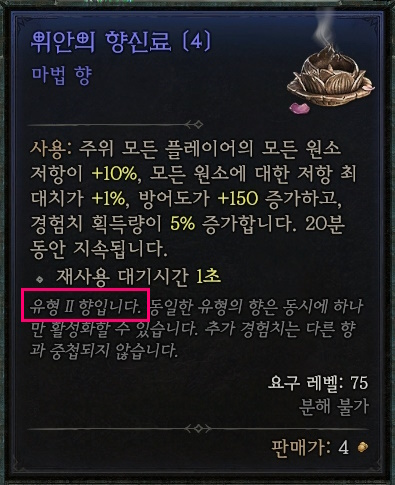
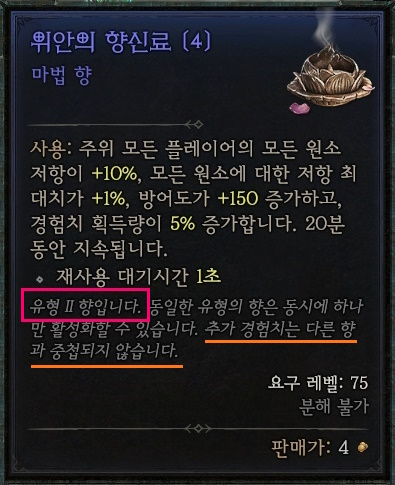
디아블로 향로 경험치 중복 불가 추가
- 디아블로 향로 경험치 중복 불가 추가

Changed region(s): [[0.5165, 0.6804, 0.9114, 0.7113], [0.0608, 0.7423, 0.4557, 0.7732]]

diff --git a/index.html b/index.html
@@ -495,17 +495,15 @@
       
         <div class="col-md-4 col-sm-6">
           <div class="blog-block">
-             <img src="/images/game/enshrouded/enshrouded-legendary-weapon-guillotine-info-00.jpg" alt="[인슈라오디드] 첫번째 전설 무기 - 기요틴(길로틴) 정보 썸네일 이미지" />
+             <img src="/images/game/mobile/nexon-bnf-legend-item-seoul-jamsil-saenae-fist-of-sun-06.png" alt="[빌딩앤파이터] 올가전용 전설 무기 [서울 잠실새내 태양권] 플레이 후기와 영상 썸네일 이미지" />
             <div class="blog-content">
-              <h3><a href="/game/survival/enshrouded-legendary-weapon-guillotine-info.html">[인슈라오디드] 첫번째...</a></h3>
-              <span class="post-meta">2024-02-11 /
+              <h3><a href="/game/mobile/building-and-fighter-legend-item-seoul-jamsil-saenae-fist-of-sun-play-movie.html">[빌딩앤파이터] 올가전...</a></h3>
+              <span class="post-meta">2024-01-10 /
           
-              <a href="/tag/tag-survival.html">survival</a>, 
-          
-              <a href="/tag/tag-settlers.html">settlers</a>
+              <a href="/tag/tag-mobile.html">mobile</a>
           </span>
-              <p> 개요 요즘 [팰 월드(PalWorld)]에 이어서 화제가 되고 있는 오픈 월드 생존 RPG 게임인 [인슈라오디드(Enshrouded)]을 플레이하면서 처음으로 획득한 전설(Legendary) 무기인 [기요틴(길로틴)]에... </p>
-              <a href="/game/survival/enshrouded-legendary-weapon-guillotine-info.html" class="btn btn-new btn-new-sm btn-new-common">Read More</a>
+              <p> 개요 넥슨(Nexon)의 위치기반 모바일 게임 [빌딩앤파이터]의 올가전용 전설 무기 [서울 잠실새내 태양권] 플레이 후기와 영상 정보에 대해 정리해보겠습니다. 우선 무기... </p>
+              <a href="/game/mobile/building-and-fighter-legend-item-seoul-jamsil-saenae-fist-of-sun-play-movie.html" class="btn btn-new btn-new-sm btn-new-common">Read More</a>
             </div>
           </div>
         </div>     
@@ -516,26 +514,18 @@
             
       
       
-        
-      
-    
-            
-      
-      
       
         <div class="col-md-4 col-sm-6">
           <div class="blog-block">
-             <img src="/images/game/pioneers-of-pagonia/pioneers-of-pagonia-interface-mining-building-info-01.png" alt="[파이오니어스 오브 파고니아] 인터페이스 - 채굴 건물 정보 썸네일 이미지" />
+             <img src="/images/game/diablo/diablo4-item-sacred-unique-staff-of-endless-rage-01-ko.jpg" alt="디아블로4 27일차 획득 고유 아이템 [끝없는 분노의 지팡이] 상세 정보 썸네일 이미지" />
             <div class="blog-content">
-              <h3><a href="/game/simulation/pioneers-of-pagonia-interface-mining-building-info.html">[파이오니어스 오브 파...</a></h3>
-              <span class="post-meta">2024-01-04 /
+              <h3><a href="/game/diablo/diablo4-day27-get-sacred-unique-staff-of-endless-rage-info.html">디아블로4 27일차 획...</a></h3>
+              <span class="post-meta">2023-06-28 /
           
-              <a href="/tag/tag-simulation.html">simulation</a>, 
-          
-              <a href="/tag/tag-settlers.html">settlers</a>
+              <a href="/tag/tag-diablo.html">diablo</a>
           </span>
-              <p> 개요 세틀러(Settlers) 원작자이자 개발자가 제작하고, 스팀(Steam)에서 얼리 액세스(Early Access, 앞서 해보기)로 출시된 도시 건설 시뮬레이션 신작 파이오니어스 오브 파고니아(Pioneers of... </p>
-              <a href="/game/simulation/pioneers-of-pagonia-interface-mining-building-info.html" class="btn btn-new btn-new-sm btn-new-common">Read More</a>
+              <p> 27일차 득템 디아블로4 플레이 27일차에 획득한 신성 고유(Sacred Unique) 지팡이 아이템 [끝없는 분노의 지팡이]대한 정보를 정리해보겠습니다. 이번 고유 아이템은 [지옥... </p>
+              <a href="/game/diablo/diablo4-day27-get-sacred-unique-staff-of-endless-rage-info.html" class="btn btn-new btn-new-sm btn-new-common">Read More</a>
             </div>
           </div>
         </div>     
@@ -546,24 +536,18 @@
             
       
       
-        
-      
-    
-            
-      
-      
       
         <div class="col-md-4 col-sm-6">
           <div class="blog-block">
-             <img src="/images/drama/korea/tvn-alchemy-of-souls-part2-poster-01.jpg" alt="[환혼] 파트3 (시즌2 ?)가 제작되길 바라며 예상 스토리를 적어봅니다 썸네일 이미지" />
+             <img src="/images/game/mobile/nexon-hit2-dungeon-monster-position-info-01.jpg" alt="히트2 (Hit 2) 계시의 탑 여명회 정예수사 위치 정보 썸네일 이미지" />
             <div class="blog-content">
-              <h3><a href="/life/drama/korea/tvn-alchemy-of-souls-part3-season2-story.html">[환혼] 파트3 (시즌...</a></h3>
-              <span class="post-meta">2023-01-17 /
+              <h3><a href="/game/hit2/hit2-dungeon-monster-position-info.html">히트2 (Hit 2) ...</a></h3>
+              <span class="post-meta">2022-09-09 /
           
-              <a href="/tag/tag-drama.html">drama</a>
+              <a href="/tag/tag-mobile.html">mobile</a>
           </span>
-              <p> 파트2 환혼 파트2가 너무 재미있게, 그리고 무척 아쉽게 10화로 끝이났습니다. 주인공 교체에 대한 논란이 있었지만, 애초에 교체가 아니라 1화에 나왔던... </p>
-              <a href="/life/drama/korea/tvn-alchemy-of-souls-part3-season2-story.html" class="btn btn-new btn-new-sm btn-new-common">Read More</a>
+              <p> 여명회 정예수사, 헤매이는 여명회 정예수사 위치 [테라가드 영주의 지령서] 퀘스트를 진행하다보면 [계시의 탑] 던전 1층에서 [여명회 정예수사]를 처치하라 또는 [계시의... </p>
+              <a href="/game/hit2/hit2-dungeon-monster-position-info.html" class="btn btn-new btn-new-sm btn-new-common">Read More</a>
             </div>
           </div>
         </div>     
@@ -589,58 +573,16 @@
       
         
           
-          
-      
-          
            
           <div class="blog-block post-content-area">
             <div class="blog-post">
-              <h3><i class=" fa-brands fa-php  fa-xl"></i> <a href="/programming/php/php-phpspreadsheet-save-pdf-file-guide.html">Phpspreadsheet, mPDF를 사용해 PDF 문서 저장하기 | Windows</a></h3>
-              <span class="post-meta">2023-12-21 /
+              <h3><i class=" fa-brands fa-apple  fa-xl"></i> <a href="/programming/os/os-macos-catalina-other-volume.html">맥OS 카탈리나(Catalina) 기타볼륨(읽기 전용 볼륨)의 정체</a></h3>
+              <span class="post-meta">2021-11-13 /
           
-              <a href="/tag/tag-php.html">php</a>, 
-          
-              <a href="/tag/tag-windows.html">windows</a>
+              <a href="/tag/tag-mac.html">mac</a>
           </span>
-              <p>개요 여기서는 Windows 환경에서 PHP Composer를 이용해 Phpspreadsheet와 mPDF를 설치하고, PDF 문서를 생성, 저장하는 방법에 대해 정리해보겠습니다. (Phpspreadsheet는 PHPExcel의 업그레이드 버전입니다.) {% include image.html file=”programming/php/php-phpspreadsheet-save-pdf-file-01.png” width=”845” alt=”Windows 환경에서 Phpspreadsheet를 사용해 PDF 문서로 저장하는 방법” %} composer.json 생성 Composer로 Phpspreadsheet와 mPDF를 설치하기 위한 설정 파일인 composer.json 파일을 아래와 같이 생성합니다. {...</p>
-              <a href="/programming/php/php-phpspreadsheet-save-pdf-file-guide.html" class="btn btn-new btn-new-sm btn-new-common">Read More</a>
-            </div>
-          </div>
-          <div class="mb-60"></div> 
-                   
-        
-      
-          
-           
-          <div class="blog-block post-content-area">
-            <div class="blog-post">
-              <h3><i class=" fa-brands fa-windows  fa-xl"></i> <a href="/programming/os/windows-command-util-config.html">윈도우 유용한 유틸, 설정, 명령어 모음</a></h3>
-              <span class="post-meta">2022-05-01 /
-          
-              <a href="/tag/tag-windows.html">windows</a>
-          </span>
-              <p>제어판 윈도우 10 작업 표시줄 검색 창에 [제어판]이라고 입력하면 됩니다. PATH 설정 윈도우 10 작업 표시줄 검색 창에 [고급 시스템 설정 보기]라고 입력한 후 나타나는 팝업에서 아래쪽 [환경변수] 버튼을 클릭하면 됩니다. 시작프로그램 관리 작업표시줄에서 [마우스 오른쪽 클릭] - [작업관리자]에서 [시작 프로그램] 메뉴에서 관리할 수 있습니다. 키보드의 [Windows 키] + [R]에서...</p>
-              <a href="/programming/os/windows-command-util-config.html" class="btn btn-new btn-new-sm btn-new-common">Read More</a>
-            </div>
-          </div>
-          <div class="mb-60"></div> 
-                   
-        
-      
-          
-          
-      
-          
-           
-          <div class="blog-block post-content-area">
-            <div class="blog-post">
-              <h3><i class=" fa-brands fa-linux  fa-xl"></i> <a href="/programming/os/linux-command-tree-manual.html">Linux Tree 명령어 사용법</a></h3>
-              <span class="post-meta">2023-08-25 /
-          
-              <a href="/tag/tag-linux.html">linux</a>
-          </span>
-              <p>개요 Linux에서 tree 명령어는 디렉토리와 파일의 구조를 한눈에 보기 쉽게 계층으로 표현해주는 명령어입니다. 기본 사용법 tree [-acdfghilnpqrstuvxACDFJQNSUX] [-H baseHREF] [-T title ] [-L level [-R]] [-P pattern] [-I pattern] [-o filename] [--version] [--help] [--inodes] [--device] [--noreport] [--nolinks] [--dirsfirst] [--charset charset] [--filelimit[=]#] [--si] [--timefmt[=]&lt;f&gt;] [--sort[=]&lt;name&gt;] [--matchdirs] [--ignore-case] [--] [&lt;directory list&gt;] 주요...</p>
-              <a href="/programming/os/linux-command-tree-manual.html" class="btn btn-new btn-new-sm btn-new-common">Read More</a>
+              <p>개요 아이맥이나 맥북을 사용하면서 최신 OS 카탈리나로 업데이트 한 후에 저랑 비슷하게 당황스러운 경험을 하신 분들이 있을거라 생각이 들어 조금 정리해보았습니다. 아이맥에서 카탈리나로 업데이트 한 후에 몇일 사용하다보니 디스크 용량이 부족하다는 메시지를 접하게 되었습니다. 그래서 디스크 유틸리티로 확인해보았더니 기타볼륨이라고 해서 알수 없는 공간이 상당한 양을 차지하고 있었습니다. 게다가 왼쪽 디스크...</p>
+              <a href="/programming/os/os-macos-catalina-other-volume.html" class="btn btn-new btn-new-sm btn-new-common">Read More</a>
             </div>
           </div>
           <div class="mb-60"></div> 
@@ -655,6 +597,50 @@
       
           
           
+      
+          
+          
+      
+          
+          
+      
+          
+           
+          <div class="blog-block post-content-area">
+            <div class="blog-post">
+              <h3><i class=" fa-solid fa-database  fa-xl"></i> <a href="/programming/database/mysql-workbench-update-error-safe-updates.html">MySql Workbench 대량 Update Error - Safe Updates Option</a></h3>
+              <span class="post-meta">2022-12-17 /
+          
+              <a href="/tag/tag-database.html">database</a>, 
+          
+              <a href="/tag/tag-mysql.html">mysql</a>
+          </span>
+              <p>개요 MySQL DB를 MySQL Workbench로 연결해서 사용할 때 테이블에 있는 다수의 행을 한꺼번에 업데이트 해야 하는 경우가 있습니다. 예를 들어 UPDATE test_db.test_table SET field_1 = ‘value’; 하지만, 이때 업데이트 문을 실행하면 아래와 같이 [safe update mode]가 설정되어 있는데, Key 칼럼을 조건문에 사용하지 않았으므로 쿼리를 실행할 수 없다는 메시지가 나타납니다. {%...</p>
+              <a href="/programming/database/mysql-workbench-update-error-safe-updates.html" class="btn btn-new btn-new-sm btn-new-common">Read More</a>
+            </div>
+          </div>
+          <div class="mb-60"></div> 
+                   
+        
+      
+          
+           
+          <div class="blog-block post-content-area">
+            <div class="blog-post">
+              <h3><i class=" fa-brands fa-markdown  fa-xl"></i> <a href="/programming/jekyll/jekyll-sitemap-gem-xml-edit.html">Jekyll sitemap.xml 템플릿 수정하기 | Ruby 3.0</a></h3>
+              <span class="post-meta">2022-04-10 /
+          
+              <a href="/tag/tag-markdown.html">markdown</a>, 
+          
+              <a href="/tag/tag-jekyll.html">jekyll</a>
+          </span>
+              <p>사이트 환경 Ruby 3.0 Jekyll 4.2.2 jekyll-sitemap-1.4.0 파일 위치 gem 파일 위치는 Ruby 설치 폴더 아래쪽에 있는데, 아래 폴더에 찾아가면 sitemap.xml 파일이 보입니다. C:\Ruby30-x64\lib\ruby\gems\3.0.0\gems\jekyll-sitemap-1.4.0\lib {% include image.html file=”programming/jekyll/jekyll-sitemap-gem-xml-edit-01.png” width=”845” alt=”Ruby 3.0 환경에서 sitemap.xml 템플릿 파일 위치에 대한 정보” %} 파일 수정 기본값은 loc, lastmod 두가지 항목만 설정되어 있는데, image 관련...</p>
+              <a href="/programming/jekyll/jekyll-sitemap-gem-xml-edit.html" class="btn btn-new btn-new-sm btn-new-common">Read More</a>
+            </div>
+          </div>
+          <div class="mb-60"></div> 
+                   
+        
       
           
           

diff --git a/game/diablo/diablo4-season4-how-to-use-four-elixir-magic-incense.html b/game/diablo/diablo4-season4-how-to-use-four-elixir-magic-incense.html
@@ -552,7 +552,8 @@ $("#toc_onoff").click(function() {
 </section>
 
 <h2 id="향로-magic-incense">향로 (Magic Incense)</h2>
-<p>다음으로 향로는 자세히 살펴보니 종류가 아래 스샷처럼 [<strong>유형 I</strong>], [<strong>유형 II</strong>] 이렇게 2가지가 있었고, 2가지는 동시에 사용 가능한 것으로 확인되었습니다.</p>
+<p>다음으로 향로는 자세히 살펴보니 종류가 아래 스샷처럼 [<strong>유형 I</strong>], [<strong>유형 II</strong>] 이렇게 2가지가 있었고, 2가지는 동시에 사용 가능한 것으로 확인되었습니다.<br />
+다만, <code class="language-plaintext highlighter-rouge">추가 경험치는 다른 향과 중복되지 않는다</code>고 나와 있습니다. 즉, 유형 I, II 관계 없이 향로의 다른 버프는 동시에 적용되지만 추가 경험치는 중복되지 않는다는 것입니다.</p>
 
 <figure><img class="docimage" src="/images/game/diablo/diablo4-season4-loot-reborn-magic-incense-01.jpg" alt="디아블로4 (Diablo 4) 시즌4에서 경험치 비약과 향로를 동시에 4개 사용하는 방법" style="width: 395px;  " /></figure>
 
@@ -564,7 +565,7 @@ $("#toc_onoff").click(function() {
 <figure><img class="docimage" src="/images/game/diablo/diablo4-season4-loot-reborn-elixir-03.jpg" alt="디아블로4 (Diablo 4) 시즌4에서 경험치 비약과 향로를 동시에 4개 사용하는 방법" style="width: 845px; max-width: 100%; " /></figure>
 
 <h2 id="경험치-증가량">경험치 증가량</h2>
-<p>2개의 비약과 2개의 향로 즉, 4개의 버프 아이템을 동시에 켰을 때 경험치 증가량을 확인해보면 다음과 같습니다.</p>
+<p>2개의 비약과 2개의 향로 즉, 4개의 버프 아이템을 동시에 켰을 때 [<strong>2개의 비약 + 1개의 향로에 의한 경험치 증가량</strong>]을 확인해보면 다음과 같습니다.</p>
 
 <h3 id="기본-경험치">기본 경험치</h3>
 <p>세계 단계 4 고행 단계에서 얻을 수 있는 기본 경험치는 [<strong>250.0%</strong>] 입니다.</p>

diff --git a/programming/hugo/hugo-install-guide.html b/programming/hugo/hugo-install-guide.html
@@ -739,7 +739,7 @@ Hugo를 이용해서 블로그 등의 사이트를 생성할 때 Theme를 사용
 <h2 id="설치">설치</h2>
 <p>Windows 환경에서 설치할 수 있는 패키지 매니저는 [<strong>Chocolatey</strong>], [<strong>Scoop</strong>],  [<strong>Winget</strong>] 이렇게 3가지가 있는데 여기서는 윈도우 환경에서 사용하기에 가장 간단한 [<strong>Winget</strong>]으로 설치해보겠습니다.</p>
 
-<ul id="package-manager" class="tab" data-tab="f34f5923-9de2-46e2-a897-30b444276fa5" data-name="package-manager">
+<ul id="package-manager" class="tab" data-tab="c747b2d0-370b-45d3-9076-ae6da03c50de" data-name="package-manager">
   
       <li class="active" id="package-manager-winget">
           <a href="#">Winget </a>
@@ -754,7 +754,7 @@ Hugo를 이용해서 블로그 등의 사이트를 생성할 때 Theme를 사용
       </li>
   
 </ul>
-<ul class="tab-content" id="f34f5923-9de2-46e2-a897-30b444276fa5" data-name="package-manager">
+<ul class="tab-content" id="c747b2d0-370b-45d3-9076-ae6da03c50de" data-name="package-manager">
   
       <li class="active">
 <div class="language-powershell highlighter-rouge"><div class="highlight"><pre class="highlight"><code><span class="n">winget</span><span class="w"> </span><span class="nx">install</span><span class="w"> </span><span class="nx">Hugo.Hugo.Extended</span><span class="w">
